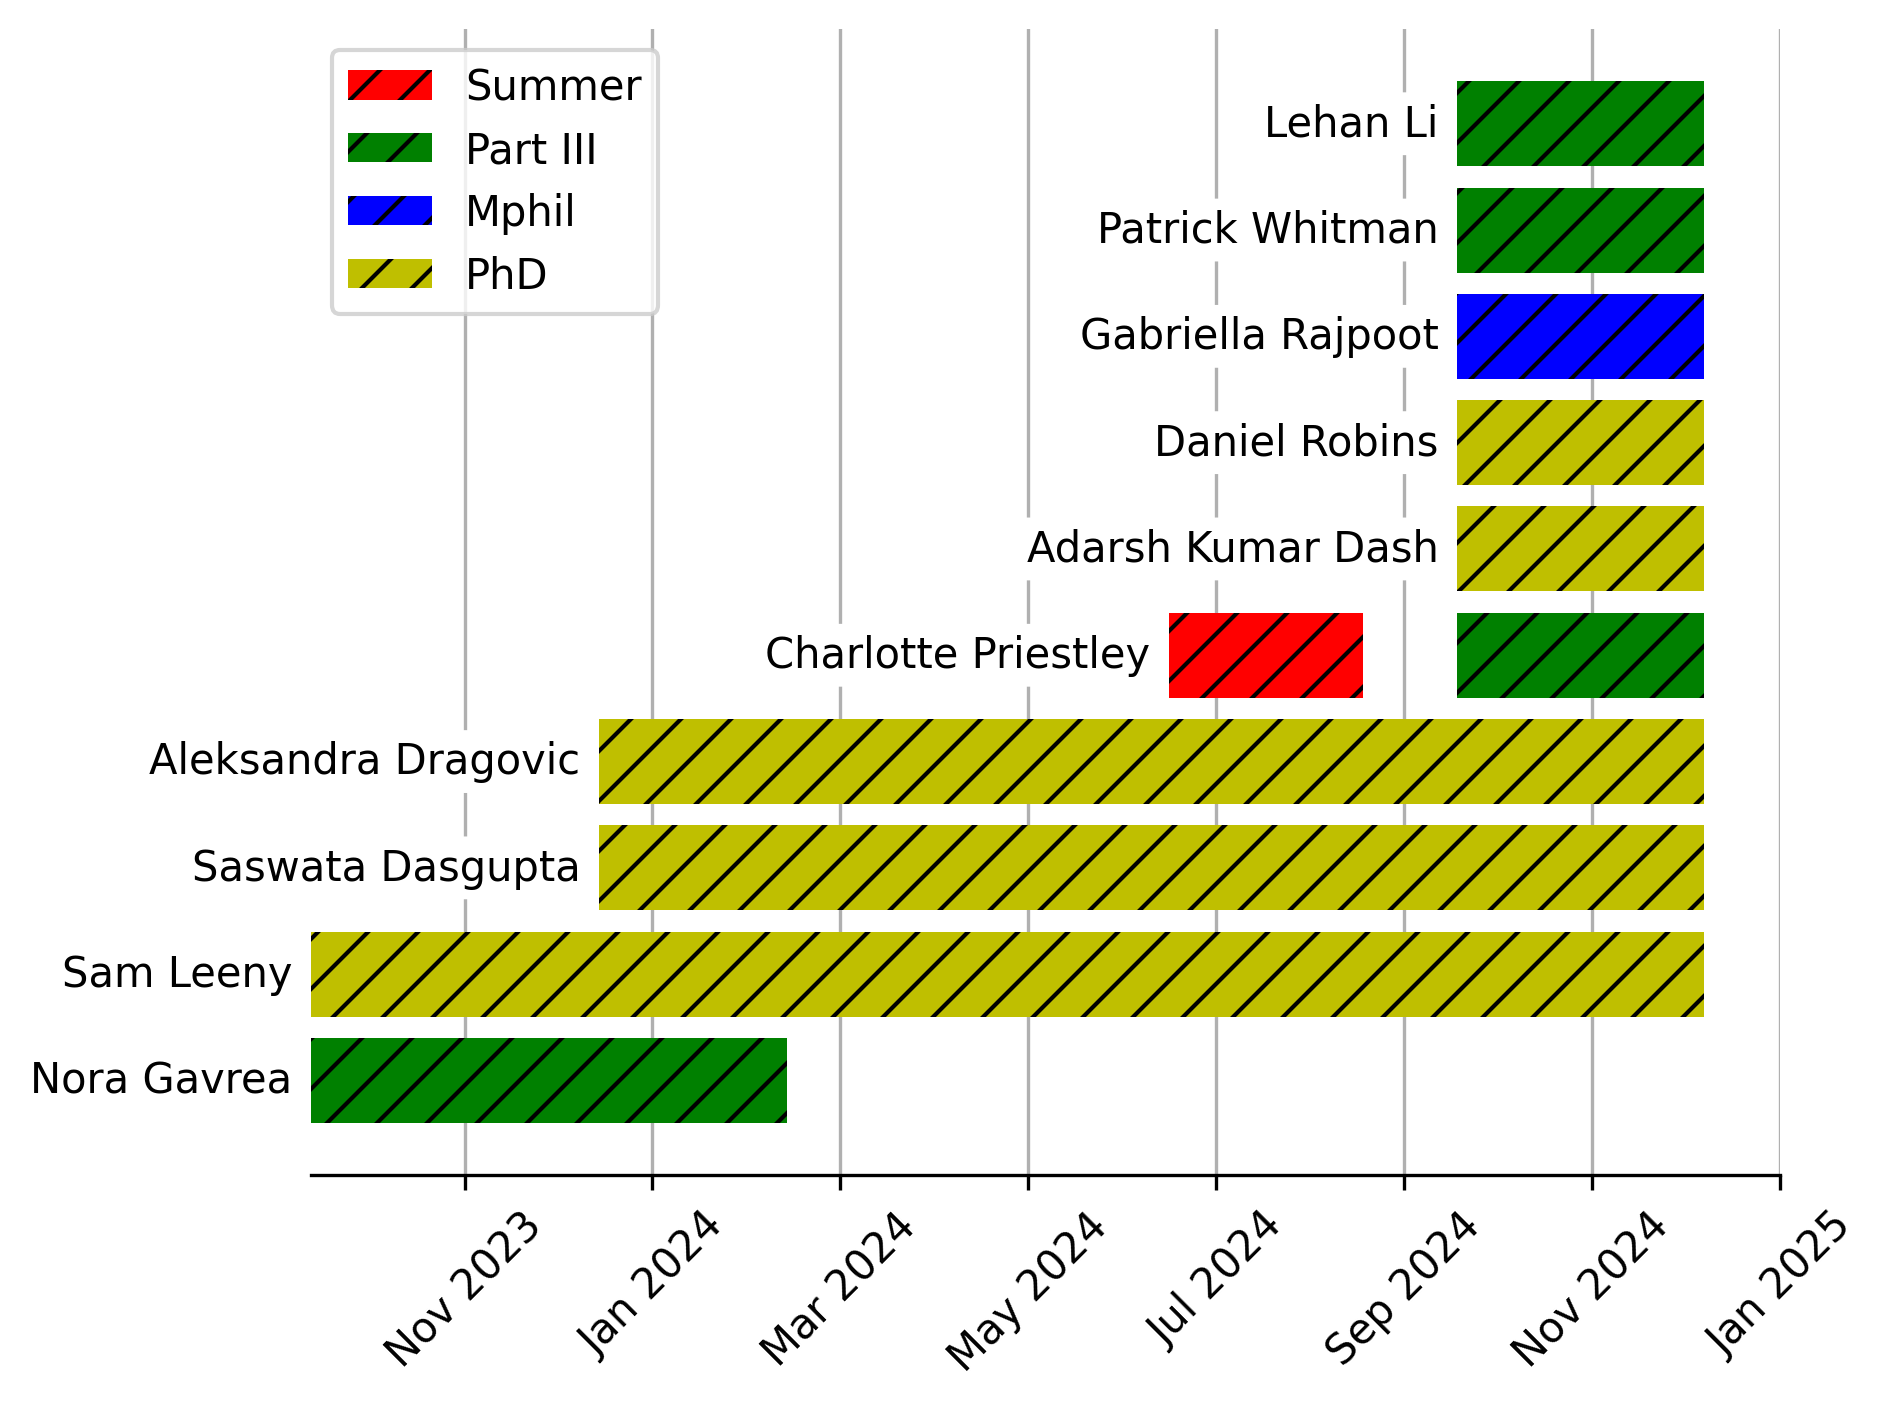
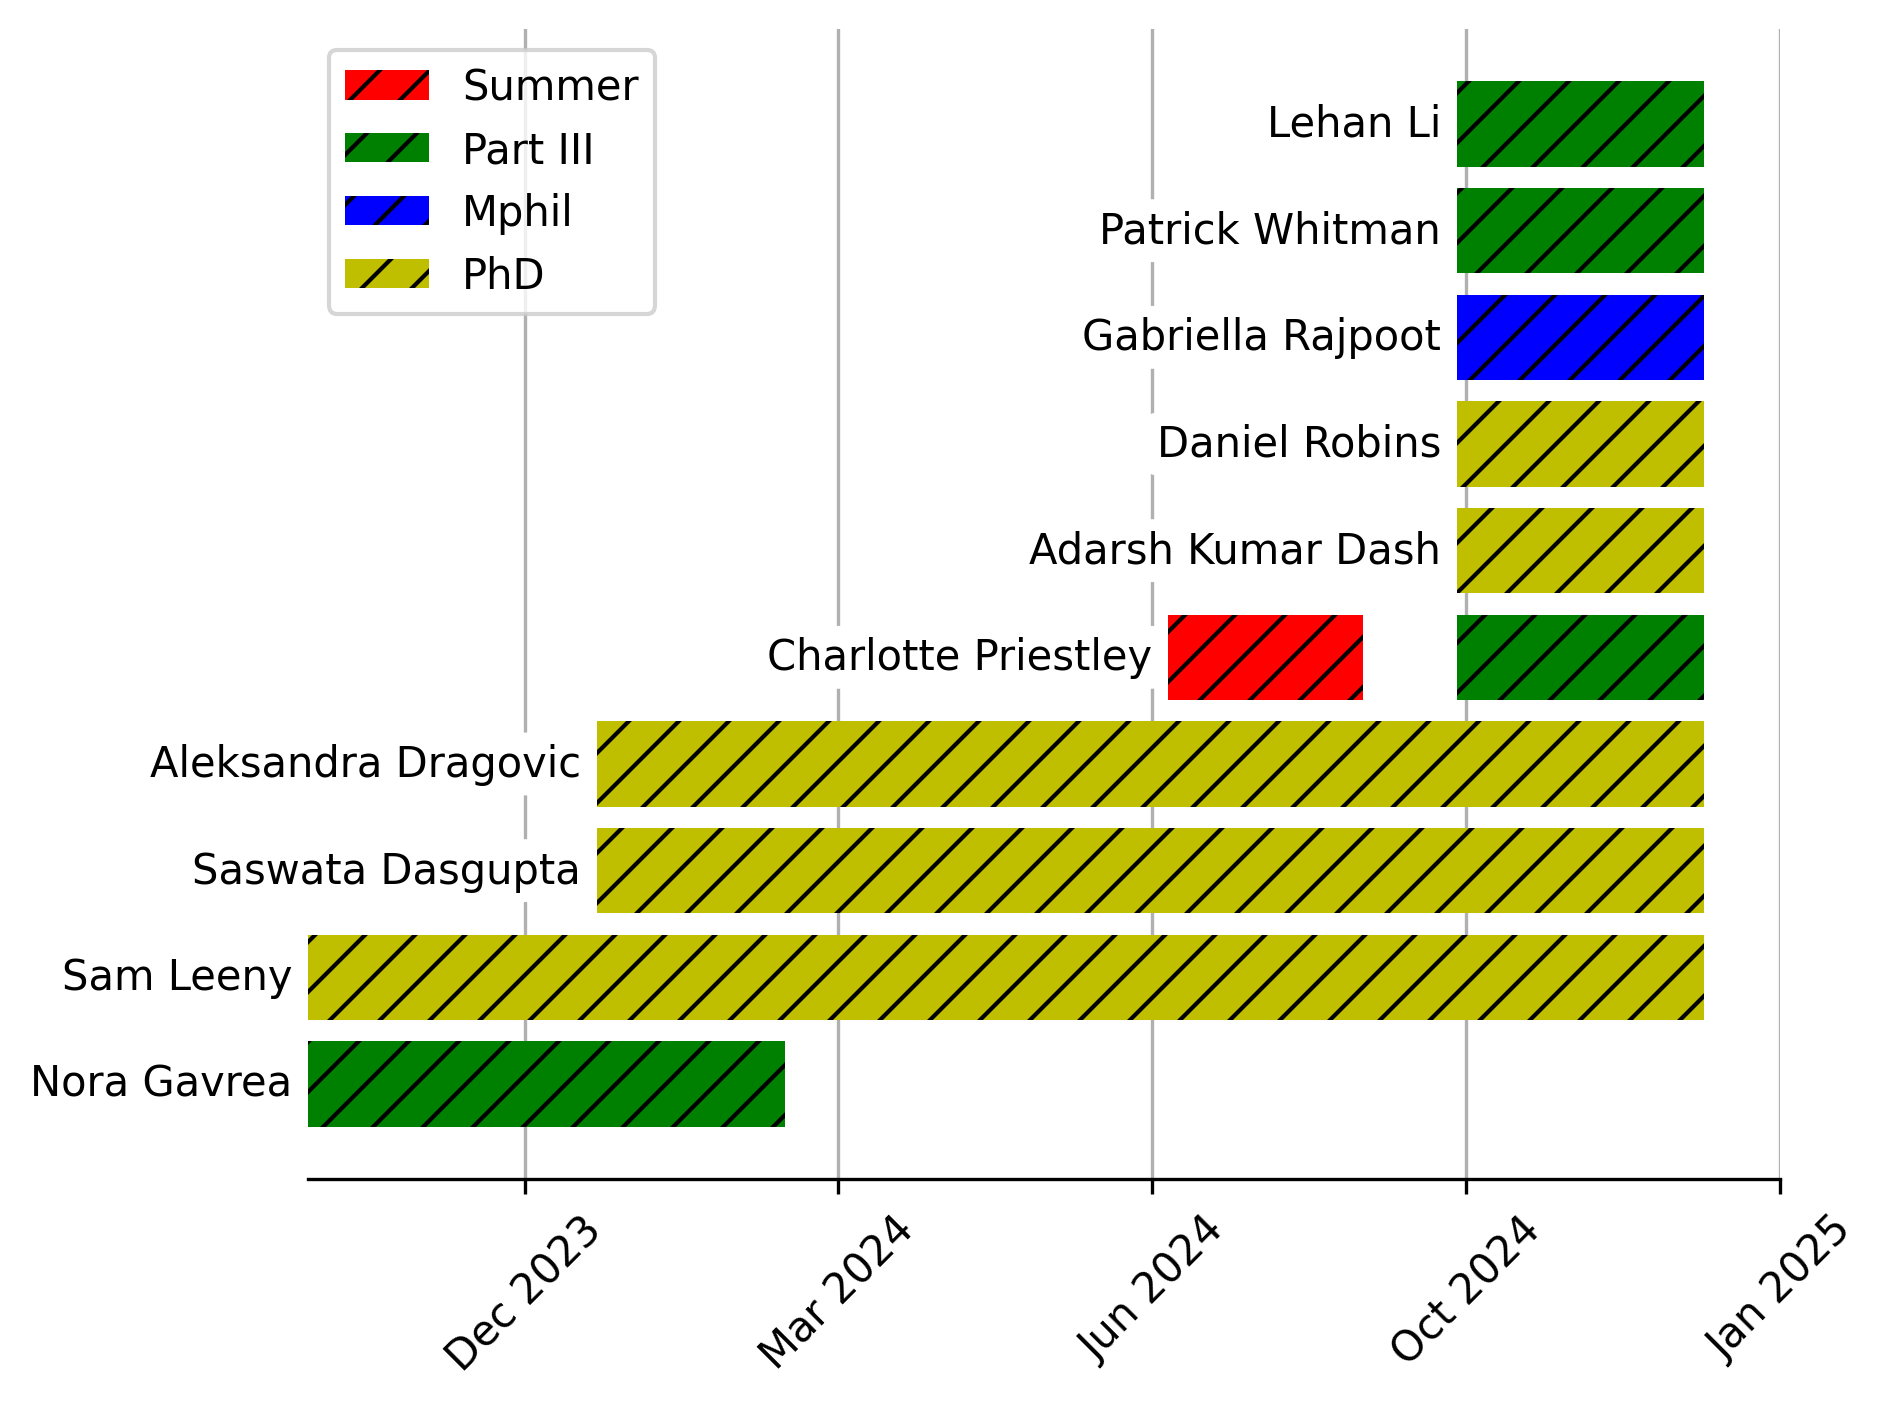
trying to align the bars on the figure a bit better

diff --git a/supervisons.py b/supervisons.py
@@ -89,20 +89,20 @@ start_date = datetime(2023, 10, 1).timestamp()
 
 
 # Function to convert seconds to months
-def seconds_to_months(seconds):
-    return seconds / (30 * 24 * 3600)
+def seconds_to_days(seconds):
+    return seconds / (24 * 3600)
 
 
 # Adjust the start times and durations to be in months from October 2023
-summer_s = [seconds_to_months(s) for s in summer_s]
-partIII_s = [seconds_to_months(s) for s in partIII_s]
-Mphil_s = [seconds_to_months(s) for s in Mphil_s]
-PhD_s = [seconds_to_months(s) for s in PhD_s]
+summer_s = [seconds_to_days(s) for s in summer_s]
+partIII_s = [seconds_to_days(s) for s in partIII_s]
+Mphil_s = [seconds_to_days(s) for s in Mphil_s]
+PhD_s = [seconds_to_days(s) for s in PhD_s]
 
-summer_diffs = seconds_to_months(summer_diffs)
-partIII_diffs = seconds_to_months(partIII_diffs)
-Mphil_diffs = seconds_to_months(Mphil_diffs)
-PhD_diffs = seconds_to_months(PhD_diffs)
+summer_diffs = seconds_to_days(summer_diffs)
+partIII_diffs = seconds_to_days(partIII_diffs)
+Mphil_diffs = seconds_to_days(Mphil_diffs)
+PhD_diffs = seconds_to_days(PhD_diffs)
 
 fig, ax = plt.subplots()
 plt.grid(zorder=1)
@@ -134,15 +134,15 @@ plt.barh(
     zorder=2,
 )
 plt.barh(
-    y=y, width=PhD_diffs, left=PhD_s, color="y", 
+    y=y, width=PhD_diffs, left=PhD_s, color="y",
     label="PhD", hatch=hatch, zorder=2
 )
 
 minimum = []
 for i in range(len(students["Name"])):
-    minimum.append(np.nanmin([summer_s[i], 
+    minimum.append(np.nanmin([summer_s[i],
                     partIII_s[i], Mphil_s[i], PhD_s[i]]))
-    plt.text(minimum[i]-0.2, i, students["Name"].values[i], 
+    plt.text(minimum[i]-5, i, students["Name"].values[i], 
              ha='right', va='center', fontsize=10,
              bbox=dict(facecolor='white', edgecolor='white',
                         boxstyle='round,pad=0.2'))
@@ -150,13 +150,13 @@ for i in range(len(students["Name"])):
 plt.xticks(
     ax.get_xticks(),
     [
-        datetime.fromtimestamp(30 * 24 * 3600 * x).strftime("%b %Y")
+        datetime.fromtimestamp(24 * 3600 * x).strftime("%b %Y")
         for x in ax.get_xticks()
     ],
     rotation=45,
 )
 
-ax.set_xlim(left=seconds_to_months(start_date))
+ax.set_xlim(left=seconds_to_days(start_date))
 
 
 plt.gca().yaxis.set_visible(False)
